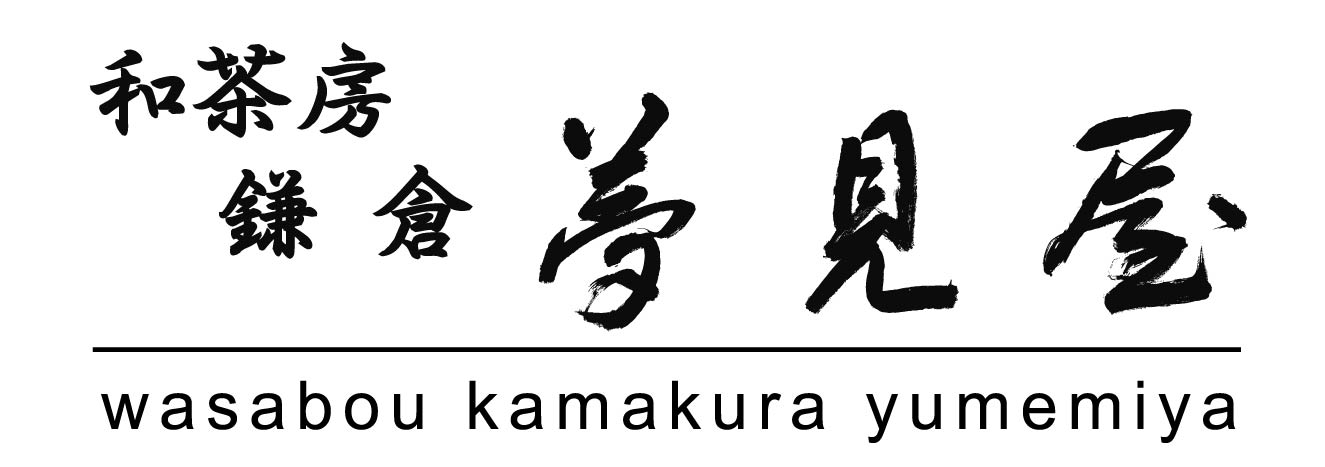
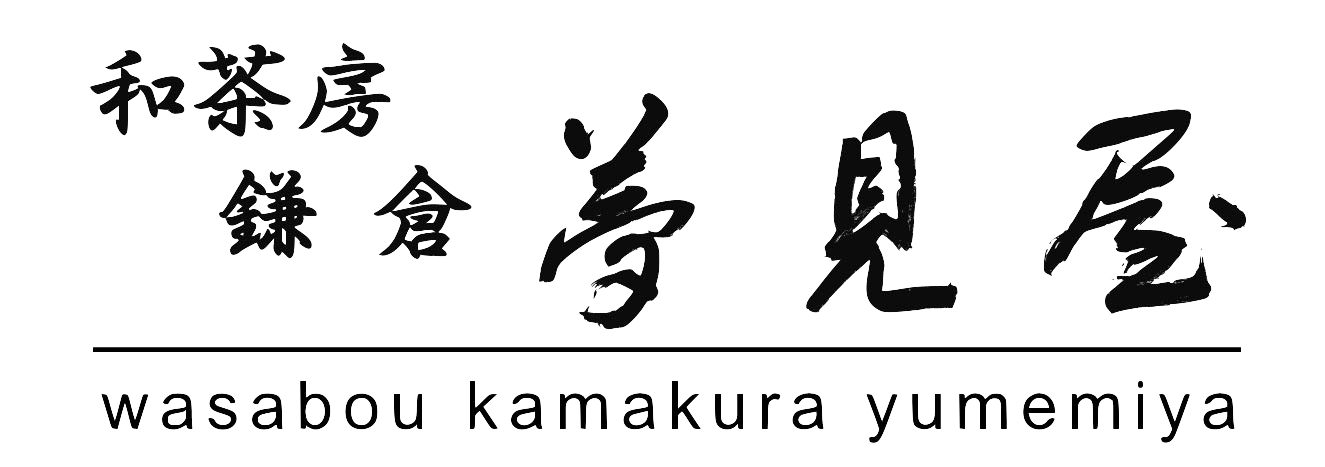
clean up

diff --git a/pages/our-brands.js b/pages/our-brands.js
@@ -10,7 +10,7 @@ import CafeGrillLogo from '../public/brands/cafe-grill.png';
 import CafeGrillCover from '../public/brands/cafe-grill-cover.png';
 import FariBeurreLogo from '../public/brands/fari-beurre.png';
 import FariBeurreCover from '../public/brands/fari-beurre-cover.png';
-import WasabouLogo from '../public/brands/wasabou-2.png';
+import WasabouLogo from '../public/brands/wasabou.png';
 import WasabouCover from '../public/brands/wasabou-cover.png';
 
 import { translate } from '../resources/Translations';
@@ -58,7 +58,7 @@ function Brands() {
                             <Image src={ItalianTomatoCover} alt='italian-tomato-cover' />
                         </div>
                         <div className={styles.logo} style={{ opacity: hover[0] ? '1' : '0', width: '170px' }}>
-                            <Image src={ItalianTomatoLogo} alt='italian-tomato-logo' />
+                            <Image src={ItalianTomatoLogo} alt='italian-tomato' />
                         </div>
                     </div>
                 </section>
@@ -69,7 +69,7 @@ function Brands() {
                             <Image src={TomatoCafeCover} alt='italian-tomato-cafe-cover' />
                         </div>
                         <div className={styles.logo} style={{ opacity: hover[1] ? '1' : '0' }}>
-                            <Image src={TomatoCafeLogo} alt='italian-tomato-cafe-logo' />
+                            <Image src={TomatoCafeLogo} alt='italian-tomato-cafe' />
                         </div>
                     </div>
                     <div>
@@ -88,7 +88,7 @@ function Brands() {
                             <Image src={CafeGrillCover} alt='cafe-grill-italian-tomato-cover' />
                         </div>
                         <div className={styles.logo} style={{ opacity: hover[2] ? '1' : '0', width: '260px' }}>
-                            <Image src={CafeGrillLogo} alt='cafe-grill-italian-tomato-logo' />
+                            <Image src={CafeGrillLogo} alt='cafe-grill-italian-tomato' />
                         </div>
                     </div>
                 </section>
@@ -99,7 +99,7 @@ function Brands() {
                             <Image src={FariBeurreCover} alt='fari-beurre-cover' />
                         </div>
                         <div className={styles.logo} style={{ opacity: hover[3] ? '1' : '0' }}>
-                            <Image src={FariBeurreLogo} alt='fari-beurre-logo' />
+                            <Image src={FariBeurreLogo} alt='fari-beurre' />
                         </div>
                     </div>
                     <div>
@@ -118,7 +118,7 @@ function Brands() {
                             <Image src={WasabouCover} alt='wasabou-kamakur-yumemiya-cover' />
                         </div>
                         <div className={styles.logo} style={{ opacity: hover[4] ? '1' : '0' }}>
-                            <Image src={WasabouLogo} alt='wasabou-kamakur-yumemiya-logo' />
+                            <Image src={WasabouLogo} alt='wasabou-kamakur-yumemiya' />
                         </div>
                     </div>
                 </section>

diff --git a/styles/Contact.module.css b/styles/Contact.module.css
@@ -1,20 +1,18 @@
 .container {
-    width: 100vw;
-
     display: flex;
     flex-direction: column;
     justify-content: flex-start;
     align-items: center;
+    width: 100vw;
 }
 
 .content {
-    width: 100%;
-
     display: flex;
     flex-direction: column;
     justify-content: flex-start;
     align-items: flex-start;
-
+    
+    width: 100%;
     padding: 60px 120px 20px;
 }
 
@@ -22,7 +20,6 @@
     display: grid;
     grid-template-columns: 1fr 1fr;
     column-gap: 120px;
-
     margin-top: 10px;
 }
 

diff --git a/styles/globals.css b/styles/globals.css
@@ -29,6 +29,8 @@ html, body {
 
     margin: 0;
     padding: 0;
+
+	overflow-x: hidden;
 }
 
 main, section, footer {
@@ -173,6 +175,7 @@ p {
 p[weight=medium] { font-weight: 500; }
 p[weight=bold] { font-weight: 700; }
 p[mode=important] { color: var(--red); }
+p[mode=faded] { color: var(--grey003); }
 p[mode=footer] { color: var(--white); }
 
 /* ---------- link ---------- */

diff --git a/styles/components/ProductCard.module.css b/styles/components/ProductCard.module.css
@@ -3,6 +3,7 @@
     flex-direction: column;
     justify-content: flex-start;
     align-items: center;
+    transition: 0.5s;
 }
 
 .container > div:first-child {
@@ -35,7 +36,6 @@
 
 .container:hover {
     transform: translateY(-8px);
-    transition: 0.5s;
 }
 
 @media screen and (max-width: 480px) {

diff --git a/resources/translations/zh.js b/resources/translations/zh.js
@@ -161,6 +161,7 @@ const locations = {
     ...common,
 
     page_title: '尋找離您最近的商店',
+    none: '沒有任何',
 
     kowloon: '九龍',
     new_territories: '新界及離島',

diff --git a/resources/translations/en.js b/resources/translations/en.js
@@ -162,6 +162,7 @@ const locations = {
     ...common,
 
     page_title: 'Find your nearest shop',
+    none: 'None',
 
     kowloon: 'Kowloon',
     new_territories: 'New Territories',
